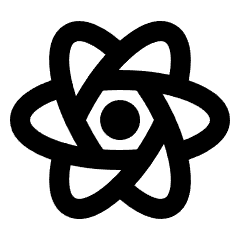
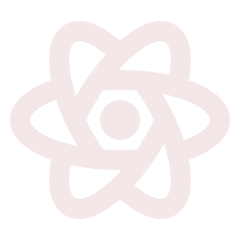
subiendo cambios de iconos

diff --git a/src/app/sections/Skills.jsx b/src/app/sections/Skills.jsx
@@ -19,31 +19,31 @@ const Skills = () => {
         <div className='mt-12 grid grid-cols-2 md:grid-cols-4 gap-6 max-w-4xl mx-auto'>
           <div className='flex flex-col items-center'>
             <img src={java} alt='JavaScript Logo' className='h-20 w-20 mb-2' />
-            <p className='text-sm text-black'>JavaScript</p>
+            <p className='text-sm text-white'>JavaScript</p>
           </div>
           <div className='flex flex-col items-center'>
             <img src={angu} alt='Angular Logo' className='h-20 w-20 mb-2' />
-            <p className='text-sm text-black'>Angular</p>
+            <p className='text-sm text-white'>Angular</p>
           </div>
           <div className='flex flex-col items-center'>
             <img src={django} alt='Django Logo' className='h-20 w-20 mb-2' />
-            <p className='text-sm text-black'>Django</p>
+            <p className='text-sm text-white'>Django</p>
           </div>
           <div className='flex flex-col items-center'>
             <img src={react} alt='React Logo' className='h-20 w-20 mb-2' />
-            <p className='text-sm text-black'>React</p>
+            <p className='text-sm text-white'>React</p>
           </div>
           <div className='flex flex-col items-center'>
             <img src={vercel} alt='Vercel Logo' className='h-20 w-20 mb-2' />
-            <p className='text-sm text-black'>Vercel</p>
+            <p className='text-sm text-white'>Vercel</p>
           </div>
           <div className='flex flex-col items-center'>
             <img src={vite} alt='Vite Logo' className='h-20 w-20 mb-2' />
-            <p className='text-sm text-black'>Vite</p>
+            <p className='text-sm text-white'>Vite</p>
           </div>
           <div className='flex flex-col items-center'>
             <img src={git} alt='Git Logo' className='h-20 w-20 mb-2' />
-            <p className='text-sm text-black'>GitHub</p>
+            <p className='text-sm text-white'>GitHub</p>
           </div>
         </div>
       </div>
